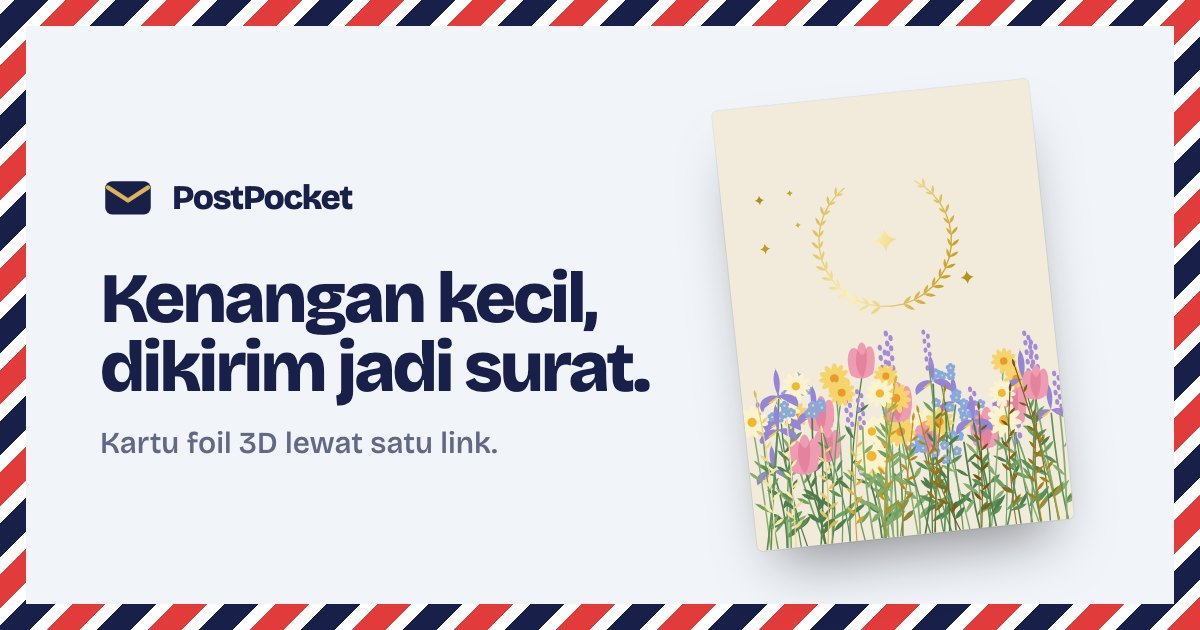
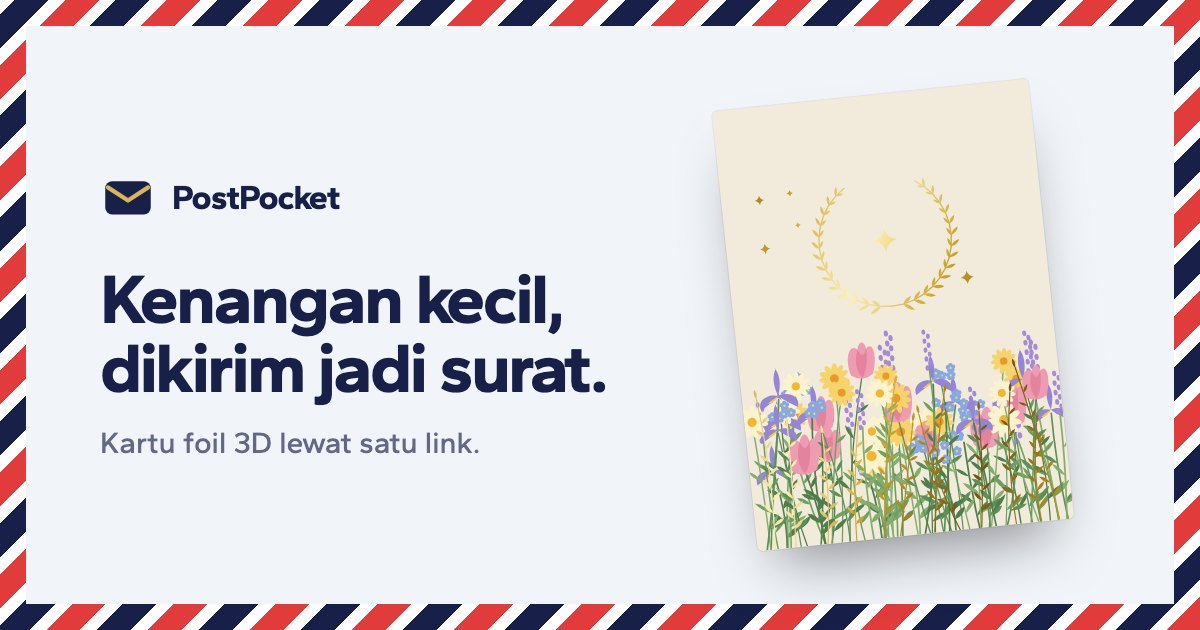
feat: huruf antarmuka Gantari, buatan Lafontype dari Makassar
Bricolage Grotesque terasa seperti desain buatan AI. Huruf antarmuka
diganti Gantari karya Anugrah Pasau (Lafontype, Makassar): bersih dan
geometris, buatan Indonesia, dan bukan font yang sering muncul di desain
template. Dipilih dengan panduan skill Impeccable (typeset dan
craft-floor) setelah membandingkan beberapa kandidat dengan teks UI asli.

- Token --font-sans memakai Gantari. Judul turun dari 800 ke 700 dengan
  jarak huruf sedikit lebih lega supaya tetap bersih.
- @nuxt/fonts memuat Gantari latin: variabel, satu berkas, di-preload.
- Gambar OG bawaan dirender ulang dengan Gantari.
- Halaman lisensi, docs/assets.md, dan docs/desain.md ikut diperbarui.

Changed region(s): [[0.0925, 0.4222, 0.555, 0.6635], [0.0925, 0.6635, 0.4317, 0.7238], [0.1542, 0.3016, 0.3083, 0.3317]]

diff --git a/apps/web/app/pages/index.vue b/apps/web/app/pages/index.vue
@@ -34,7 +34,7 @@ const shots = ['none', 'grayscale(1)', 'sepia(0.75)', 'saturate(1.6) hue-rotate(
   <div class="mx-auto flex min-h-dvh max-w-6xl flex-col px-4 sm:px-6">
     <header class="flex items-center gap-2.5 py-5">
       <img src="/favicon.svg" alt="" class="size-7" />
-      <p class="text-[20px] leading-none font-extrabold tracking-[-0.035em]">PostPocket</p>
+      <p class="text-[20px] leading-none font-bold tracking-[-0.03em]">PostPocket</p>
     </header>
 
     <main class="grid flex-1 gap-10 pb-10 lg:grid-cols-[1fr_1.05fr] lg:items-center lg:gap-16">
@@ -78,7 +78,7 @@ const shots = ['none', 'grayscale(1)', 'sepia(0.75)', 'saturate(1.6) hue-rotate(
 
       <div class="lg:order-1">
         <h1
-          class="text-[38px] leading-[0.95] font-extrabold tracking-[-0.045em] text-balance sm:text-[60px]"
+          class="text-[38px] leading-[0.95] font-bold tracking-[-0.035em] text-balance sm:text-[60px]"
         >
           Kenangan kecil, dikirim jadi surat.
         </h1>

diff --git a/apps/web/nuxt.config.ts b/apps/web/nuxt.config.ts
@@ -67,12 +67,13 @@ export default defineNuxtConfig({
     },
     priority: ['google'],
     families: [
-      // Huruf antarmuka (docs/desain.md). Variabel, jadi satu berkas latin untuk semua ketebalan,
-      // dan di-preload karena dipakai di layar pertama. Sengaja tanpa `provider`: dengan provider,
-      // font cadangan di atas diganti kategori Google-nya (`sans-serif`) yang tidak punya ukuran.
+      // Huruf antarmuka (docs/desain.md): Gantari dari Lafontype, foundry di Makassar. Variabel,
+      // jadi satu berkas latin untuk semua ketebalan, dan di-preload karena dipakai di layar
+      // pertama. Sengaja tanpa `provider`: dengan provider, font cadangan di atas diganti kategori
+      // Google-nya (`sans-serif`) yang tidak punya ukuran.
       {
-        name: 'Bricolage Grotesque',
-        weights: [400, 500, 600, 700, 800],
+        name: 'Gantari',
+        weights: [400, 500, 600, 700],
         subsets: ['latin'],
         preload: true,
       },

diff --git a/apps/web/app/assets/css/main.css b/apps/web/app/assets/css/main.css
@@ -47,8 +47,7 @@
   --color-tv-panel: #2a2a2a;
   --color-tv-panel-ink: rgb(255 255 255 / 0.92);
 
-  --font-sans:
-    'Bricolage Grotesque', ui-sans-serif, system-ui, -apple-system, 'Segoe UI', sans-serif;
+  --font-sans: 'Gantari', ui-sans-serif, system-ui, -apple-system, 'Segoe UI', sans-serif;
   --font-mono: ui-monospace, SFMono-Regular, Menlo, Consolas, monospace;
   --font-letter: 'Caveat', cursive;
   --font-tv: 'VT323', ui-monospace, monospace;
@@ -61,8 +60,8 @@
   --text-body--line-height: 1.5;
   --text-title: 24px;
   --text-title--line-height: 1.15;
-  --text-title--letter-spacing: -0.03em;
-  --text-title--font-weight: 800;
+  --text-title--letter-spacing: -0.025em;
+  --text-title--font-weight: 700;
   --text-display: 42px;
   --text-display--line-height: 1.05;
   --text-display--letter-spacing: -0.03em;

diff --git a/apps/web/app/pages/tv.vue b/apps/web/app/pages/tv.vue
@@ -711,7 +711,7 @@ const marqueeSeconds = computed(() => Math.max(8, marquee.value.length * 0.3))
 
       <div class="text-center">
         <!-- Halaman yang sama dipakai TV dan Booth; judulnya mengikuti yang sedang dibuka. -->
-        <h1 class="text-[clamp(36px,10vw,56px)] leading-none font-extrabold tracking-[-0.045em]">
+        <h1 class="text-[clamp(36px,10vw,56px)] leading-none font-bold tracking-[-0.035em]">
           {{ booth ? 'Booth' : 'Memori TV' }}
         </h1>
         <p class="mt-3 text-[14px] text-ink-muted" data-testid="tv-subtitle">

diff --git a/apps/web/app/pages/pocket/index.vue b/apps/web/app/pages/pocket/index.vue
@@ -92,7 +92,7 @@ function openDay(day: string) {
       <section class="mt-5 rounded-[30px] bg-surface p-4 shadow-raised sm:p-7">
         <div class="flex flex-wrap items-start justify-between gap-3 px-1 sm:px-0">
           <div>
-            <h1 class="text-[clamp(30px,8vw,42px)] leading-none font-extrabold tracking-[-0.045em]">
+            <h1 class="text-[clamp(30px,8vw,42px)] leading-none font-bold tracking-[-0.035em]">
               {{ title }}
             </h1>
             <p class="mt-1 text-body text-pocket-muted">

diff --git a/apps/web/app/error.vue b/apps/web/app/error.vue
@@ -25,7 +25,7 @@ const reload = () => window.location.reload()
     <header class="mx-auto flex w-full max-w-3xl items-center gap-2 py-4">
       <a
         href="/"
-        class="inline-flex min-h-11 items-center gap-2 text-[17px] font-extrabold tracking-[-0.03em]"
+        class="inline-flex min-h-11 items-center gap-2 text-[17px] font-bold tracking-[-0.025em]"
         @click="home"
       >
         <img src="/favicon.svg" alt="" class="size-6" /> PostPocket

diff --git a/apps/web/app/components/Modal.vue b/apps/web/app/components/Modal.vue
@@ -49,7 +49,7 @@ const open = defineModel<boolean>('open', { default: false })
               {{ eyebrow }}
             </p>
             <DialogTitle
-              class="mt-2 pr-12 text-[28px] leading-tight font-extrabold tracking-[-0.04em]"
+              class="mt-2 pr-12 text-[28px] leading-tight font-bold tracking-[-0.03em]"
               :class="tone === 'pocket' ? 'text-pocket-ink' : 'text-ink'"
             >
               {{ title }}

diff --git a/apps/web/app/pages/lisensi.vue b/apps/web/app/pages/lisensi.vue
@@ -27,7 +27,7 @@ useSeoMeta({
 
     <h2>Huruf</h2>
     <p>
-      Bricolage Grotesque, Caveat, dan VT323 dari Google Fonts, dengan
+      Gantari karya Lafontype, Caveat, dan VT323 dari Google Fonts, dengan
       <a href="https://openfontlicense.org/" target="_blank" rel="noopener"
         >SIL Open Font License 1.1</a
       >.

diff --git a/apps/web/app/pages/pocket/[date].vue b/apps/web/app/pages/pocket/[date].vue
@@ -113,7 +113,7 @@ const editOpen = ref(false)
         </NuxtLink>
       </header>
 
-      <h1 class="mt-1 text-[clamp(26px,7vw,34px)] leading-tight font-extrabold tracking-[-0.04em]">
+      <h1 class="mt-1 text-[clamp(26px,7vw,34px)] leading-tight font-bold tracking-[-0.03em]">
         {{ longDate(day) }}
       </h1>
 

diff --git a/docs/assets.md b/docs/assets.md
@@ -4,14 +4,14 @@ Setiap aset yang masuk repo dicatat di sini (PRD bagian Risiko: lisensi aset tid
 
 | Aset | Lokasi | Sumber | Lisensi |
 | --- | --- | --- | --- |
-| Font Bricolage Grotesque, Caveat, VT323 | Diunduh saat build oleh `@nuxt/fonts` | Google Fonts | SIL Open Font License 1.1 |
+| Font Gantari (Lafontype), Caveat, VT323 | Diunduh saat build oleh `@nuxt/fonts` | Google Fonts | SIL Open Font License 1.1 |
 | Ilustrasi depan kartu (padang bunga, ranting, malam berbintang) dan tanda sampul belakang | `apps/web/public/illustrations/` | Dibuat sendiri, hasil `apps/web/scripts/illustrations.mjs` | Milik sendiri |
 | Ikon garis (chevron, tutup, kamera, dan lainnya) | `apps/web/app/utils/icons.ts` | Digambar sendiri | Milik sendiri |
 | Ikon bunga di swatch warna foil | `apps/web/app/components/letter/FoilSwatchIcon.vue` | Digambar sendiri (SVG) | Milik sendiri |
 | Favicon amplop | `apps/web/public/favicon.svg` | Digambar sendiri | Milik sendiri |
 | Ikon aplikasi (PWA dan layar utama iPhone) | `apps/web/public/pwa-*.png`, `maskable-icon-512x512.png`, `apple-touch-icon-180x180.png` | Dibuat sendiri dari amplop favicon, hasil `apps/web/scripts/pwa-icons.mjs` | Milik sendiri |
 | Foto contoh pantai senja | `apps/web/public/samples/contoh-foto.svg` | Digambar sendiri (SVG) | Milik sendiri |
-| Gambar OG bawaan (`og-surat.jpg`, `og-beranda.jpg`) | `apps/web/public/` | Disusun dari ilustrasi padang bunga, favicon, dan warna foil emas sendiri, hasil `apps/web/scripts/og-images.mjs` (font Bricolage Grotesque dari Google Fonts, bingkai par avion) | Milik sendiri; Bricolage Grotesque SIL Open Font License 1.1 |
+| Gambar OG bawaan (`og-surat.jpg`, `og-beranda.jpg`) | `apps/web/public/` | Disusun dari ilustrasi padang bunga, favicon, dan warna foil emas sendiri, hasil `apps/web/scripts/og-images.mjs` (font Gantari dari Google Fonts, bingkai par avion) | Milik sendiri; Gantari SIL Open Font License 1.1 |
 | Kantong snack Pocket dan jepitan kayunya | `apps/web/app/components/pocket/SnackPacket.vue` | Digambar sendiri dengan CSS (gradien dan clip-path bergerigi), tanpa file gambar | Milik sendiri |
 | Tekstur serat kertas dan butiran kilau foil | `--texture-paper` dan `--texture-glitter` di `apps/web/app/assets/css/main.css` | Noise SVG `feTurbulence` | Milik sendiri |
 | Stiker isi surat dan Pocket (21 buah) | `apps/web/public/stickers/` | [Microsoft Fluent Emoji](https://github.com/microsoft/fluentui-emoji) gaya 3D, commit `1ffb34c`, diperkecil ke WebP 192 px oleh `apps/web/scripts/stickers.mjs` | MIT, teks lisensinya di `apps/web/public/stickers/LICENSE` |

diff --git a/docs/desain.md b/docs/desain.md
@@ -18,7 +18,7 @@ PostPocket tempat anak muda Indonesia menyimpan momen kecil per hari, lalu mengi
 
 Teks sekunder memakai tinta 66% (minimal 4,9:1) dan placeholder tinta 48%.
 
-**Huruf.** Bricolage Grotesque untuk semua teks antarmuka, dari judul sampai keterangan. Judul memakai ketebalan 800 dengan jarak huruf rapat, jadi terasa seperti cetakan kemasan. Caveat tetap untuk isi surat (tulisan tangan), dan VT323 tetap untuk layar TV. Font cadangannya diukur sama dengan Arial (iPhone, desktop) atau Roboto (Android), jadi teks tidak melompat saat Bricolage selesai dimuat.
+**Huruf.** Gantari untuk semua teks antarmuka, dari judul sampai keterangan. Gantari dibuat Anugrah Pasau dari Lafontype, foundry di Makassar: huruf buatan Indonesia untuk aplikasi anak muda Indonesia. Bentuknya bersih dan geometris tapi tetap hangat, dan bukan salah satu font yang sering muncul di desain buatan AI (Inter, Space Grotesk, Bricolage Grotesque, Plus Jakarta Sans, dan sejenisnya). Judul memakai ketebalan 700 dengan jarak huruf sedikit rapat, teks biasa 400, dan label 500–600. Caveat tetap untuk isi surat (tulisan tangan), dan VT323 tetap untuk layar TV. Font cadangannya diukur sama dengan Arial (iPhone, desktop) atau Roboto (Android), jadi teks tidak melompat saat Gantari selesai dimuat.
 
 **Modul.** Pocket dan TV memakai kertas dan tinta yang sama dengan Beranda. Ciri tiap modul ada di bendanya: kantong jajan dan jepitan kayu (utility `clothespin`) di Pocket, TV jadul berlayar VT323 di Memori TV dan Booth.
 
@@ -38,4 +38,4 @@ Teks sekunder memakai tinta 66% (minimal 4,9:1) dan placeholder tinta 48%.
 3. **Kata-kata dari sudut pandang user.** Kalimat biasa (bukan huruf kapital semua), kata kerja yang jelas, dan satu nama untuk satu aksi di seluruh alur.
 4. **Batas mutu tetap berlaku:** kontras minimal 4,5:1 untuk teks, fokus keyboard terlihat, `prefers-reduced-motion` dihormati, dan tata letak tetap rapi dari HP 360 px sampai desktop.
 
-Panduan yang dipakai: skill [frontend-design](https://github.com/anthropics/skills/tree/main/skills/frontend-design) dari Anthropic dan [Web Interface Guidelines](https://github.com/vercel-labs/web-interface-guidelines) dari Vercel.
+Panduan yang dipakai: skill [frontend-design](https://github.com/anthropics/skills/tree/main/skills/frontend-design) dari Anthropic, skill [Impeccable](https://github.com/pbakaus/impeccable) (bagian `typeset` dan `craft-floor`, dipakai untuk memilih Gantari), dan [Web Interface Guidelines](https://github.com/vercel-labs/web-interface-guidelines) dari Vercel.
